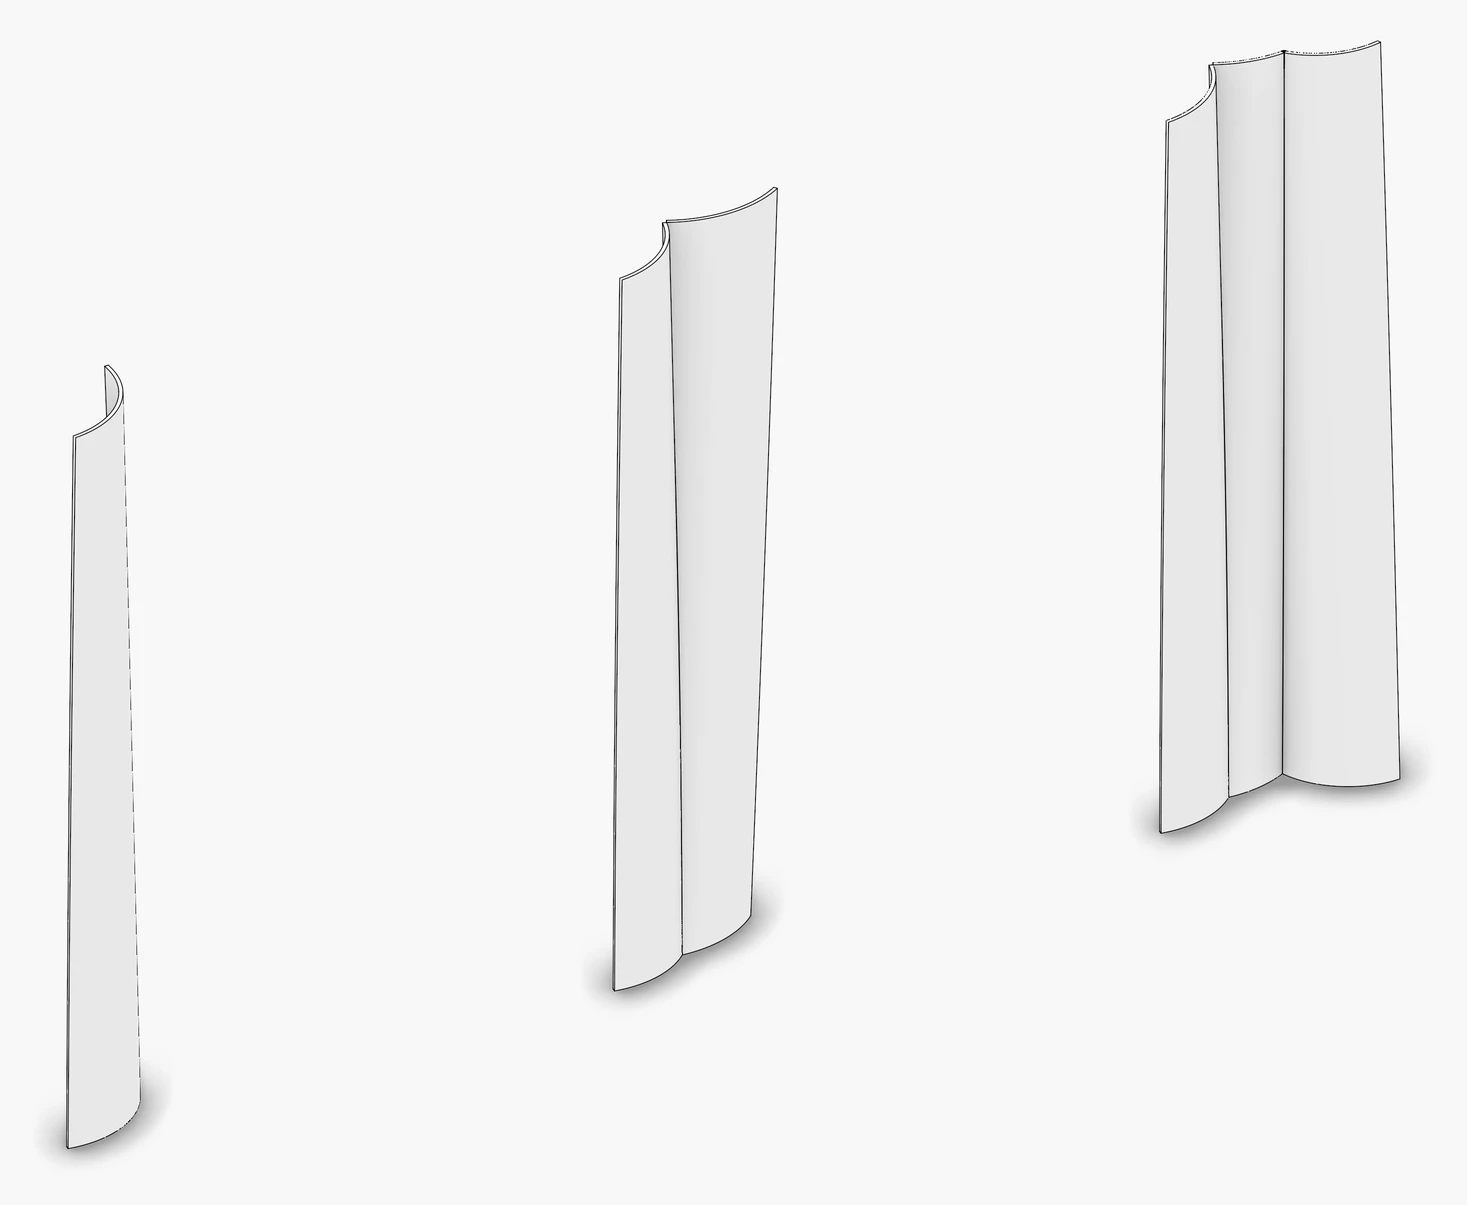
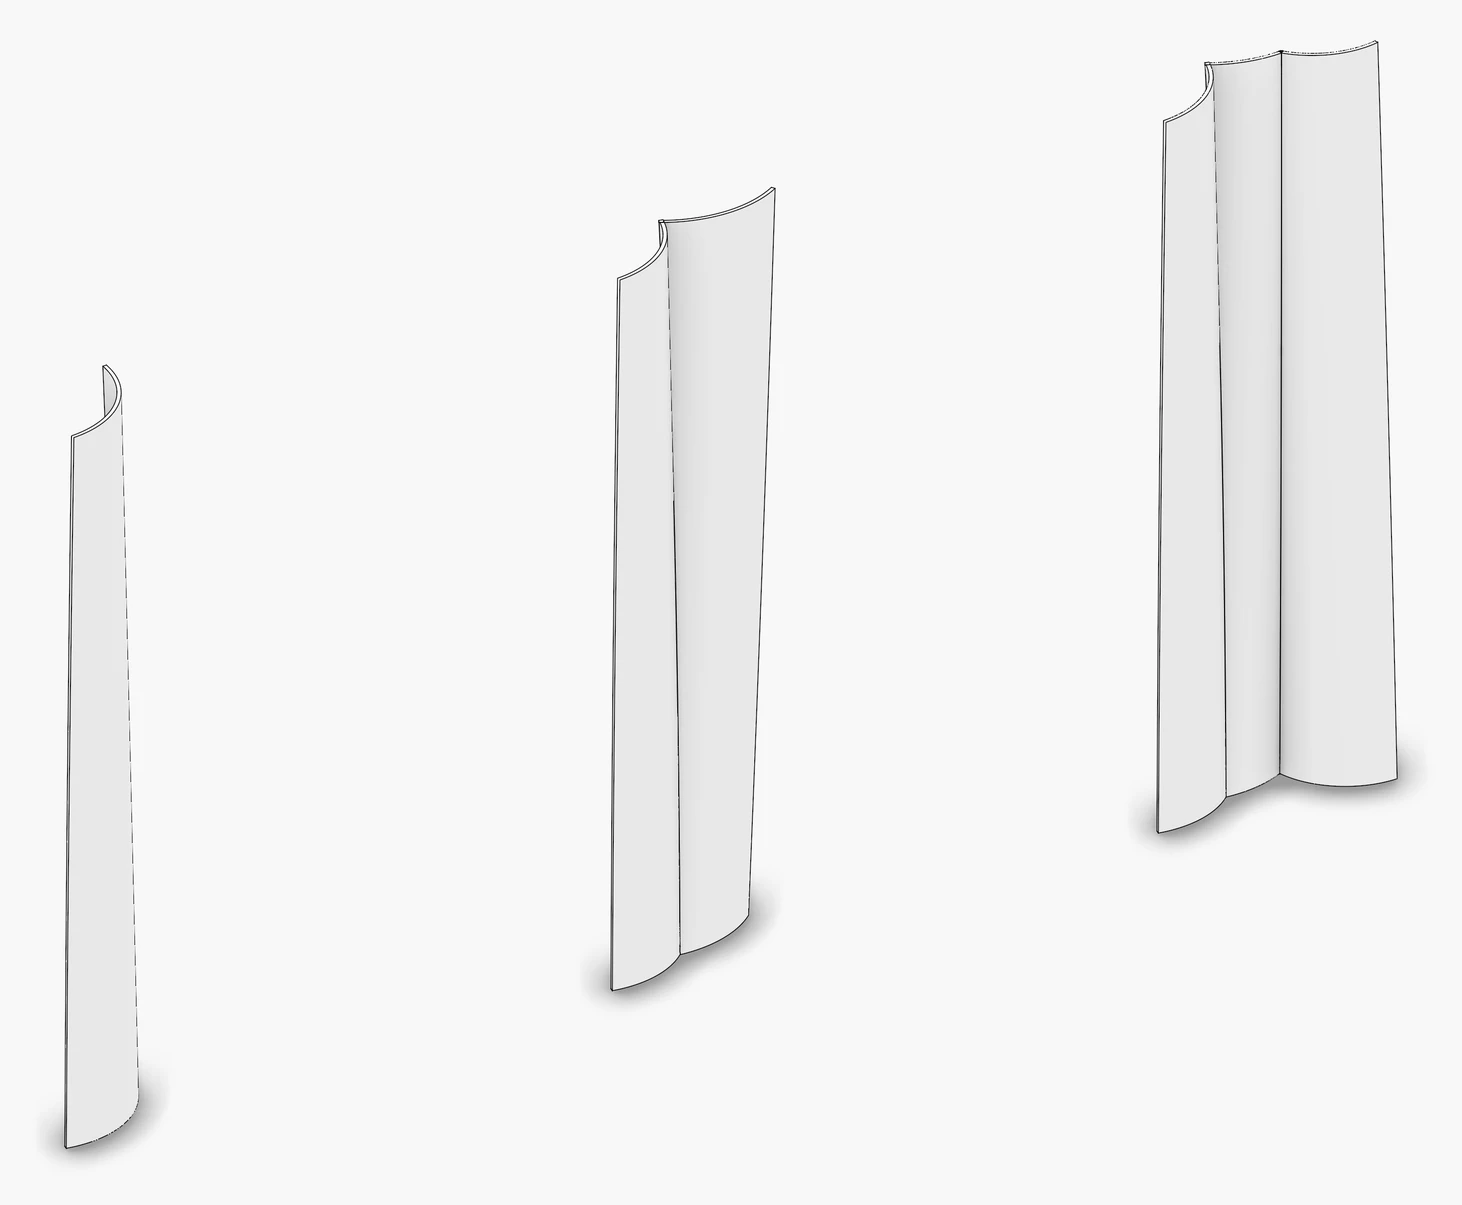
wood: cylinder carving patches reach their neighbours at the end planes - a patch's run set by its carved surface alone, the plate behind thinning to a millimetre where it runs out first near an end plane, so no slit opens along a crease at the ends

diff --git a/src/templates/cylindrical_folding/cylinder_carving.h b/src/templates/cylindrical_folding/cylinder_carving.h
@@ -82,8 +82,12 @@ private:
     /// The piece of the generator at angle grown by offset that overlaps the reference most, a millimetre long; none when none does.
     std::optional<Part> pick(size_t k, double angle, double offset, const Part& reference) const;
 
-    /// Whether the generator at angle keeps the reference's piece a millimetre long on the surface and behind it.
+    /// Whether the generator at angle keeps the reference's piece a millimetre long on the carved surface.
     bool keeps(size_t k, double angle, const Part& reference) const;
+
+    /// The piece behind the outer one a thickness deep; where the plate behind runs out first, near an end plane, the last
+    /// millimetre of the outer piece at that end, the plate thinning to a wedge so the carved surface has no gap.
+    Part behind(size_t k, double angle, const Part& outer) const;
 
     /// Carver k's patches: its pieces followed from generator to generator by their overlap, the ends of every one exact.
     std::vector<Patch> compute_patches(size_t k) const;
@@ -274,9 +278,21 @@ inline std::optional<CylinderCarving::Part> CylinderCarving::pick(size_t k, doub
 
 inline bool CylinderCarving::keeps(size_t k, double angle, const Part& reference) const {
 
-    const std::optional<Part> outer = pick(k, angle, 0.0, reference);
+    return pick(k, angle, 0.0, reference).has_value();
+}
 
-    return outer && pick(k, angle, thickness, *outer);
+inline CylinderCarving::Part CylinderCarving::behind(size_t k, double angle, const Part& outer) const {
+
+    const std::optional<Part> inner = pick(k, angle, thickness, outer);
+
+    if (inner)
+        return *inner;
+
+    // the end of the outer piece on an end plane, a millimetre of it
+    if (outer.high_by == 1 || outer.high_by == 2)
+        return {outer.high - 1.0, outer.high, outer.low_by, outer.high_by};
+
+    return {outer.low, outer.low + 1.0, outer.low_by, outer.high_by};
 }
 
 inline const CylinderCarving::Part& CylinderCarving::reference(const Patch& patch, double angle) {
@@ -302,7 +318,7 @@ inline std::vector<CylinderCarving::Patch> CylinderCarving::compute_patches(size
         const double angle = step * static_cast<double>(i);
 
         for (const Part& piece : parts(k, angle, 0.0))
-            if (piece.high - piece.low > 1.0 && pick(k, angle, thickness, piece))
+            if (piece.high - piece.low > 1.0)
                 pieces[i].push_back(piece);
 
         if (pieces[i].empty() && start == count)
@@ -390,12 +406,9 @@ inline std::array<int, 4> CylinderCarving::enders(size_t k, const Patch& patch, 
     if (!outer)
         return {-1, -1, -1, -1};
 
-    const std::optional<Part> inner = pick(k, angle, thickness, *outer);
+    const Part inner = behind(k, angle, *outer);
 
-    if (!inner)
-        return {-1, -1, -1, -1};
-
-    return {outer->low_by, outer->high_by, inner->low_by, inner->high_by};
+    return {outer->low_by, outer->high_by, inner.low_by, inner.high_by};
 }
 
 inline std::vector<double> CylinderCarving::compute_breaks(size_t k, const Patch& patch) const {
@@ -508,15 +521,15 @@ inline void CylinderCarving::add_plates() {
                     const std::pair<Point, Vector> outer = generator(k, angle, 0.0);
                     const std::pair<Point, Vector> inner = generator(k, angle, thickness);
                     const std::optional<Part> outer_part = pick(k, angle, 0.0, reference(patch, angle));
-                    const std::optional<Part> inner_part = outer_part ? pick(k, angle, thickness, *outer_part) : std::nullopt;
 
-                    if (!outer_part || !inner_part)
-                        throw std::invalid_argument(fmt::format("Carver {} leaves no plate behind its generator at {:.3f} radians", k, angle));
+                    if (!outer_part)
+                        throw std::invalid_argument(fmt::format("Carver {} leaves no carved surface at its generator at {:.3f} radians", k, angle));
 
+                    const Part inner_part = behind(k, angle, *outer_part);
                     points[0].push_back(outer.first + outer.second * outer_part->low);
                     points[1].push_back(outer.first + outer.second * outer_part->high);
-                    points[2].push_back(inner.first + inner.second * inner_part->low);
-                    points[3].push_back(inner.first + inner.second * inner_part->high);
+                    points[2].push_back(inner.first + inner.second * inner_part.low);
+                    points[3].push_back(inner.first + inner.second * inner_part.high);
                 }
 
                 for (size_t c = 0; c < 4; c++)
